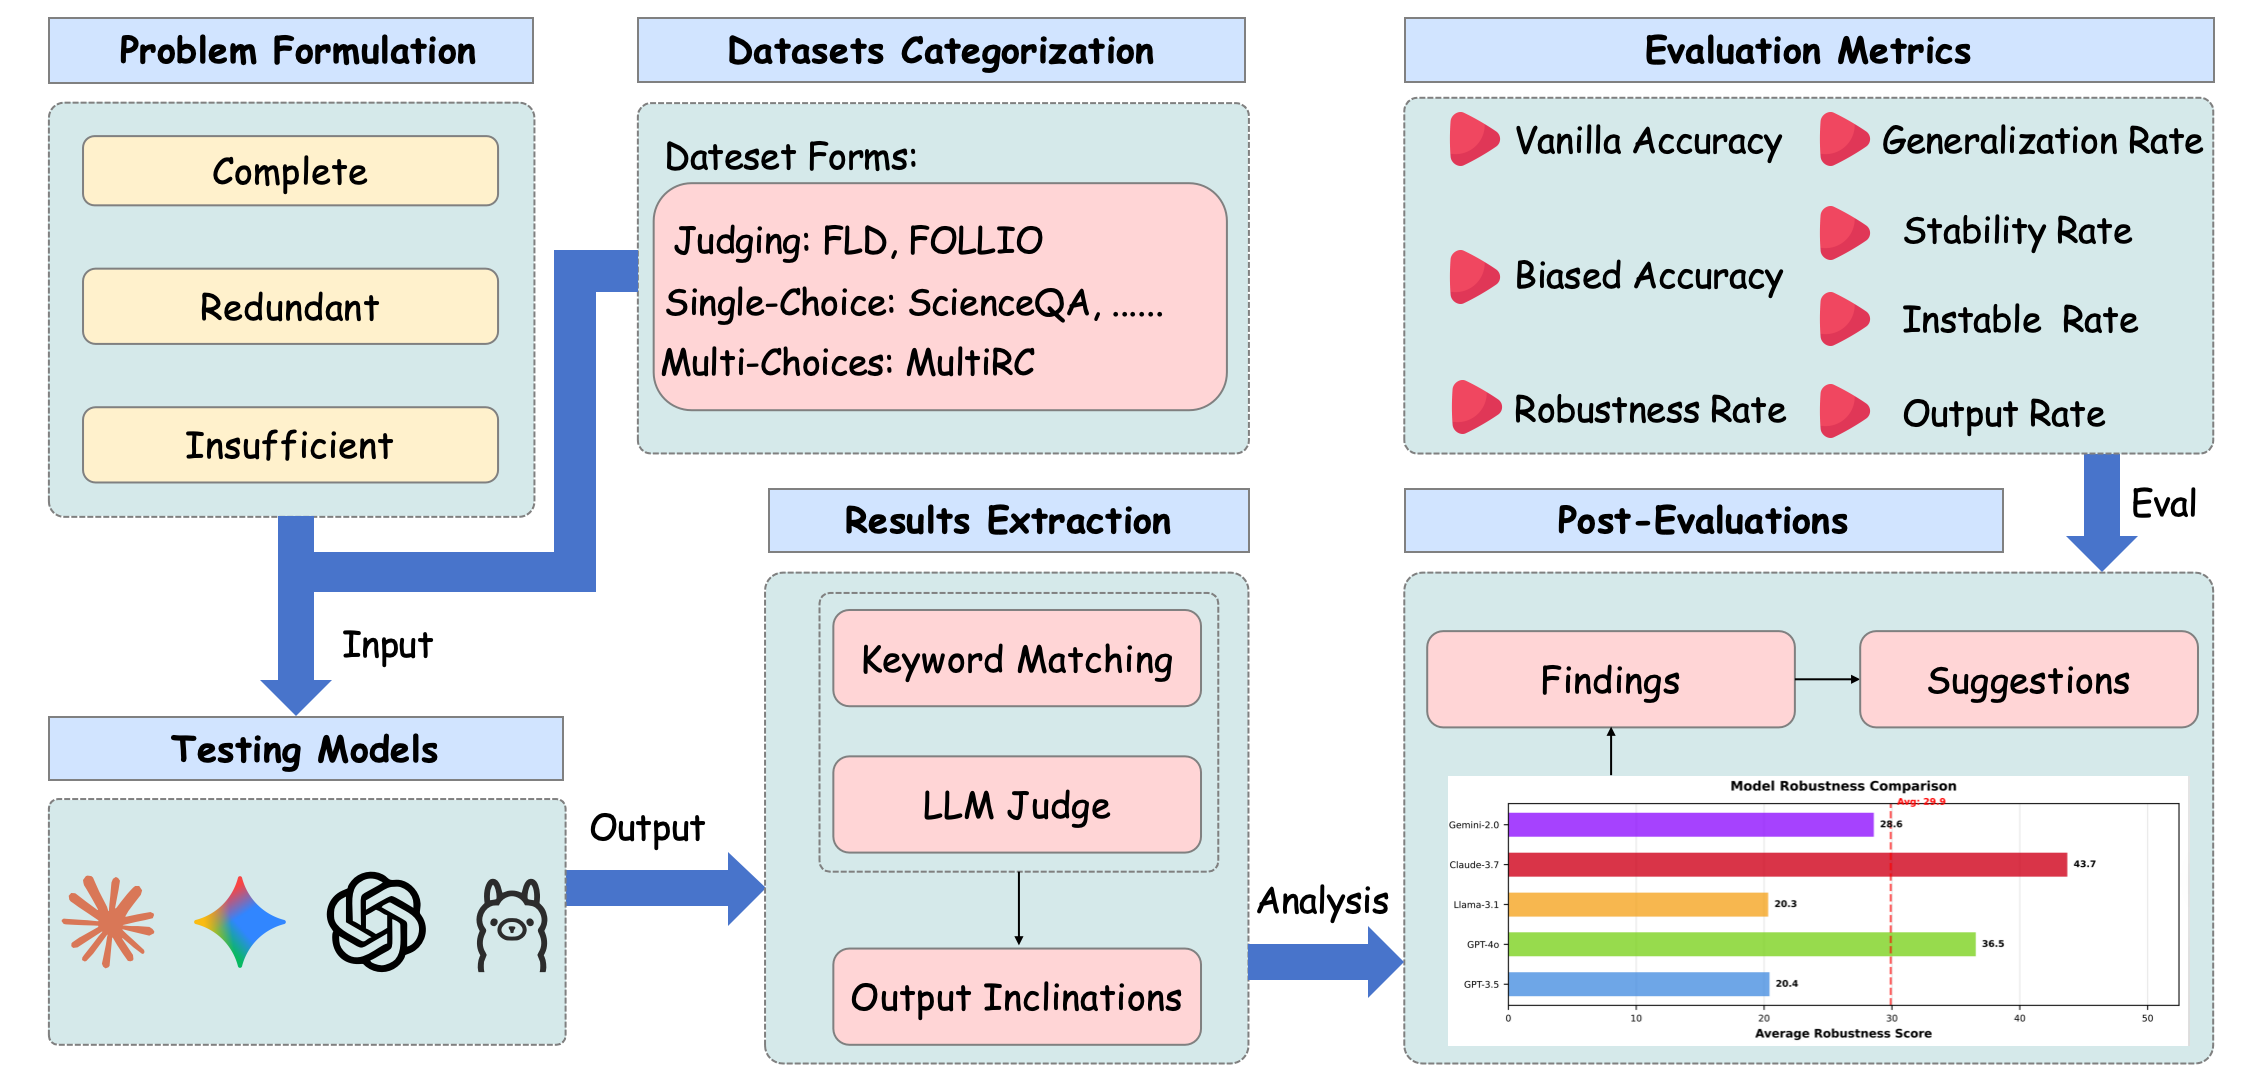
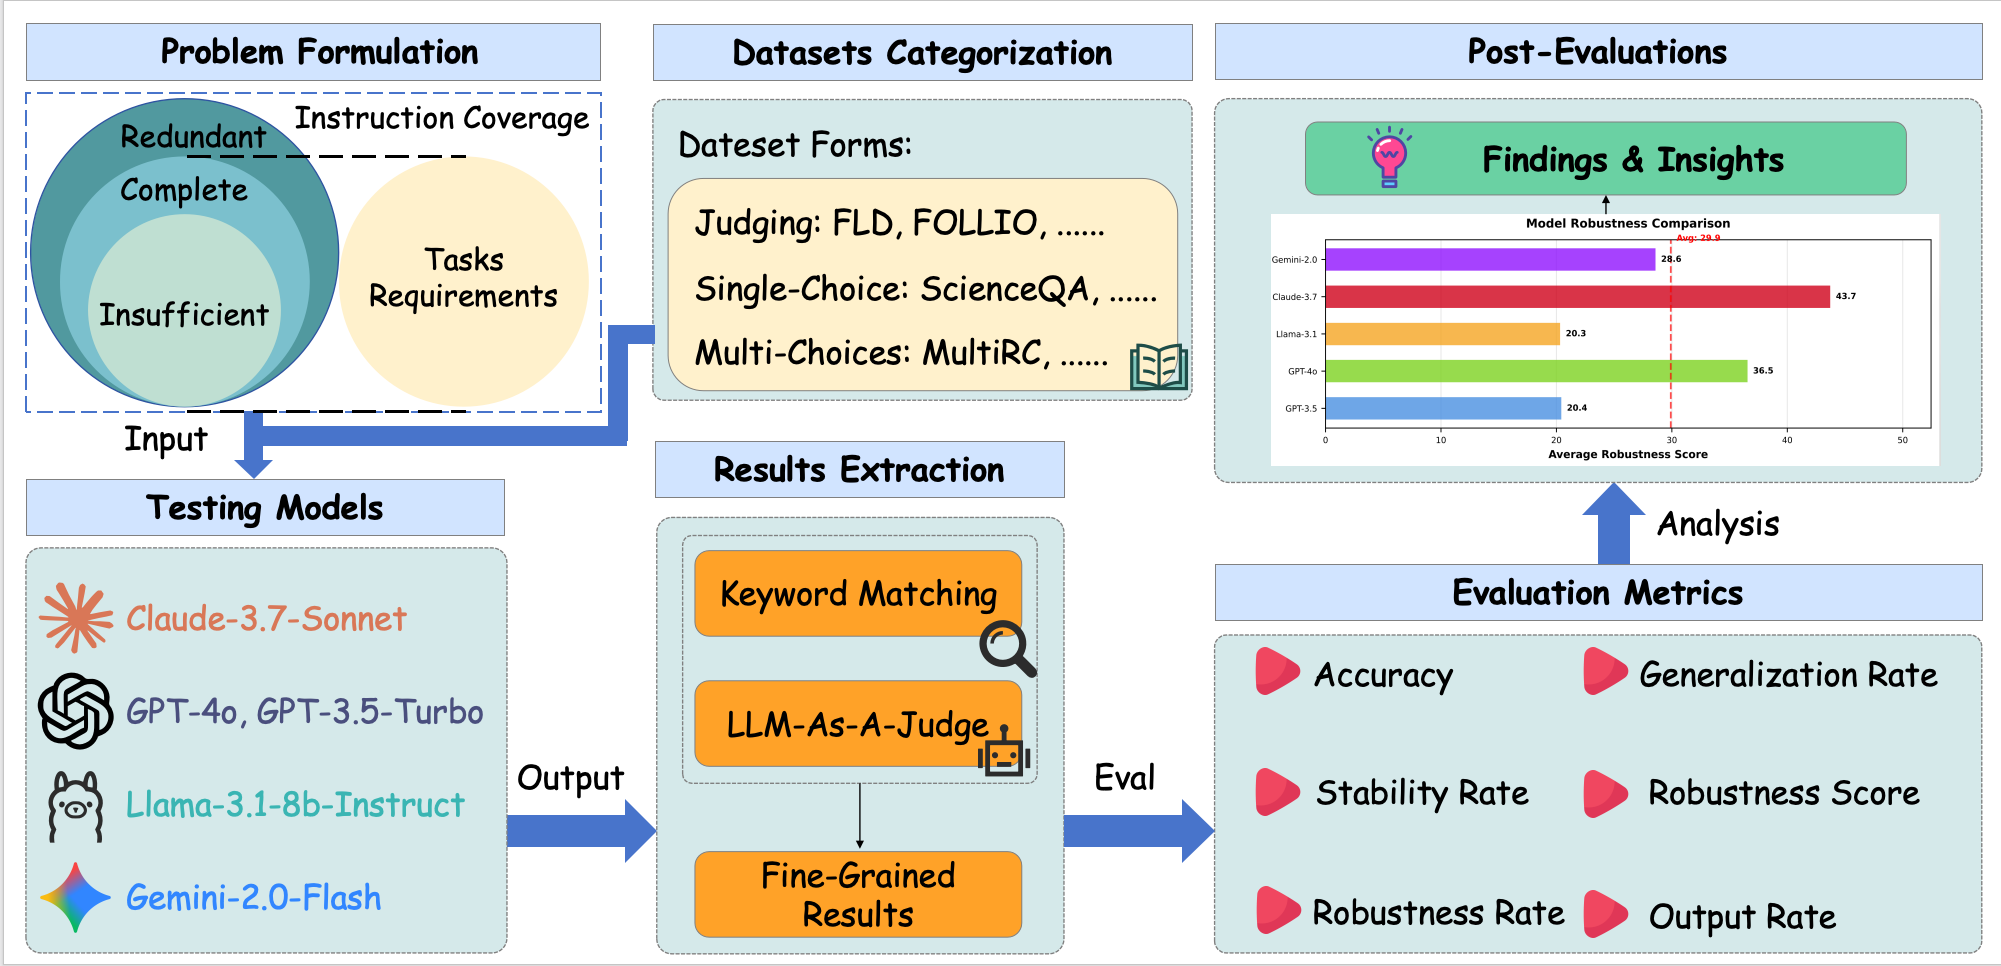
123

diff --git a/_pages/about.md b/_pages/about.md
@@ -51,7 +51,7 @@ Currently, I am working as an intern student under Prof. [Huaxiu Yao](https://ww
 </div>
 
 
-<div class='paper-box'><div class='paper-box-image'><div><div class="badge">preprint</div><a href="https://www.arxiv.org/pdf/2509.20278"><img src='images/llm_evaluation_pipeline.png' alt="LLM评估流程图" width="100%"></a></div></div>
+<div class='paper-box'><div class='paper-box-image'><div><div class="badge">preprint</div><a href="https://www.arxiv.org/pdf/2509.20278"><img src='images/instruction_boundary_pipeline.png' alt="LLM评估流程图" width="100%"></a></div></div>
 <div class='paper-box-text' markdown="1">
 
 **Instruction Boundary: Quantifying Biases in LLM Reasoning under Various Coverage** [[PDF]](https://www.arxiv.org/pdf/2509.20278)  [[Code]](https://github.com/ZpLing/Instruction-Boundary)
